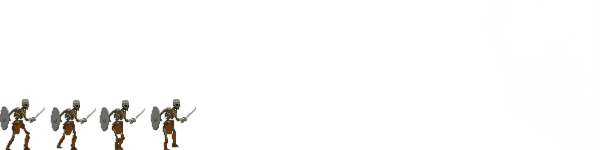
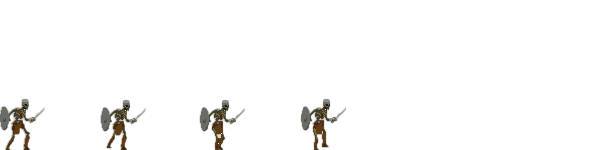
Upgrade Skeleton

diff --git a/main.cpp b/main.cpp
@@ -20,7 +20,7 @@ private:
 
 public:
     int Health = 2;
-    bool Strike;
+    bool strike;
     bool Saw_hero = false;
     bool TakeDamage = false;
 
@@ -28,7 +28,7 @@ public:
         Pos = _pos;
         Enemy.loadFromFile("AnimatedSkeleton/Idle.png");
         SpriteEnemy.setTexture(Enemy);
-        SpriteEnemy.setTextureRect(sf::IntRect(45, 95, -45, 55));
+        SpriteEnemy.setTextureRect(sf::IntRect(100, 95, -100, 55));
         SpriteEnemy.setPosition(Pos.x, Pos.y);
         DirOfimpact = "left";
         emphasis = false;
@@ -49,9 +49,10 @@ public:
                 TakeDamage = false;
                 Health--;
             }
-            if (DirOfimpact == "left") {
-                SpriteEnemy.setTextureRect(sf::IntRect(50 + 50 * int(currentFrame), 95, -50, 55));
-            }
+            if (DirOfimpact == "left") 
+                SpriteEnemy.setTextureRect(sf::IntRect(100 + 100 * int(currentFrame), 95, -100, 55));
+            if (DirOfimpact == "right")
+                SpriteEnemy.setTextureRect(sf::IntRect(0 + 100 * int(currentFrame), 95, 100, 55));
         }
         if (Health == 0) {
             currentFrame += 0.01 * time;
@@ -70,10 +71,10 @@ public:
             Enemy.loadFromFile("AnimatedSkeleton/Idle.png");
             SpriteEnemy.setTexture(Enemy);
             if (DirOfimpact == "right")
-                SpriteEnemy.setTextureRect(sf::IntRect(0, 95, 45, 55));
+                SpriteEnemy.setTextureRect(sf::IntRect(0, 95, 100, 55));
             if (DirOfimpact == "left")
-                SpriteEnemy.setTextureRect(sf::IntRect(45, 95, -45, 55));
-            if ((distance < 25 && distance > -25) || strike) {
+                SpriteEnemy.setTextureRect(sf::IntRect(100, 95, -100, 55));
+            if ((distance < 15 && distance > -15) || strike) {
                 currentFrameAttack += 0.025 * time;
                 strike = true;
                 Enemy.loadFromFile("AnimatedSkeleton/Attack.png");
@@ -90,7 +91,6 @@ public:
                 }
             }
         }
-
         if (((distance > 100 || distance < -100) && !strike) && !TakeDamage && Health > 0)
             Saw_hero = false;
 
@@ -103,7 +103,7 @@ public:
             SpriteEnemy.setTexture(Enemy);
             if (i < (distanceWalk + 1) && !emphasis) {
                 i += 0.25 * time;
-                SpriteEnemy.setTextureRect(sf::IntRect(50 + 50 * (int(currentFrame)), 95, -50, 55));
+                SpriteEnemy.setTextureRect(sf::IntRect(100 + 100 * (int(currentFrame)), 95, -100, 55));
                 Pos.x -= 0.25 * time;
                 if (i >= distanceWalk) {
                     emphasis = true;
@@ -111,7 +111,7 @@ public:
             }
             if ((i > 0) && emphasis) {
                 i -= 0.25 * time;
-                SpriteEnemy.setTextureRect(sf::IntRect(0 + 50 * (int(currentFrame)), 95, 50, 55));
+                SpriteEnemy.setTextureRect(sf::IntRect(0 + 100 * (int(currentFrame)), 95, 100, 55));
                 Pos.x += 0.25 * time;
                 if (i < 0)
                     emphasis = false;
@@ -151,7 +151,7 @@ int main()
             Hero->OnGround = false;
         if (sf::Keyboard::isKeyPressed(sf::Keyboard::F) && (!Hero->strike) && (!Hero->fall) && (Hero->OnGround)){
             Hero->attack();
-            if ((Hero->position().x - Skeleton->position().x <= 15)&& Skeleton->Health != 0) {
+            if ((Hero->position().x - Skeleton->position().x <= 10)&& Skeleton->Health != 0) {
                 Skeleton->TakeDamage = true;
             }
         }
